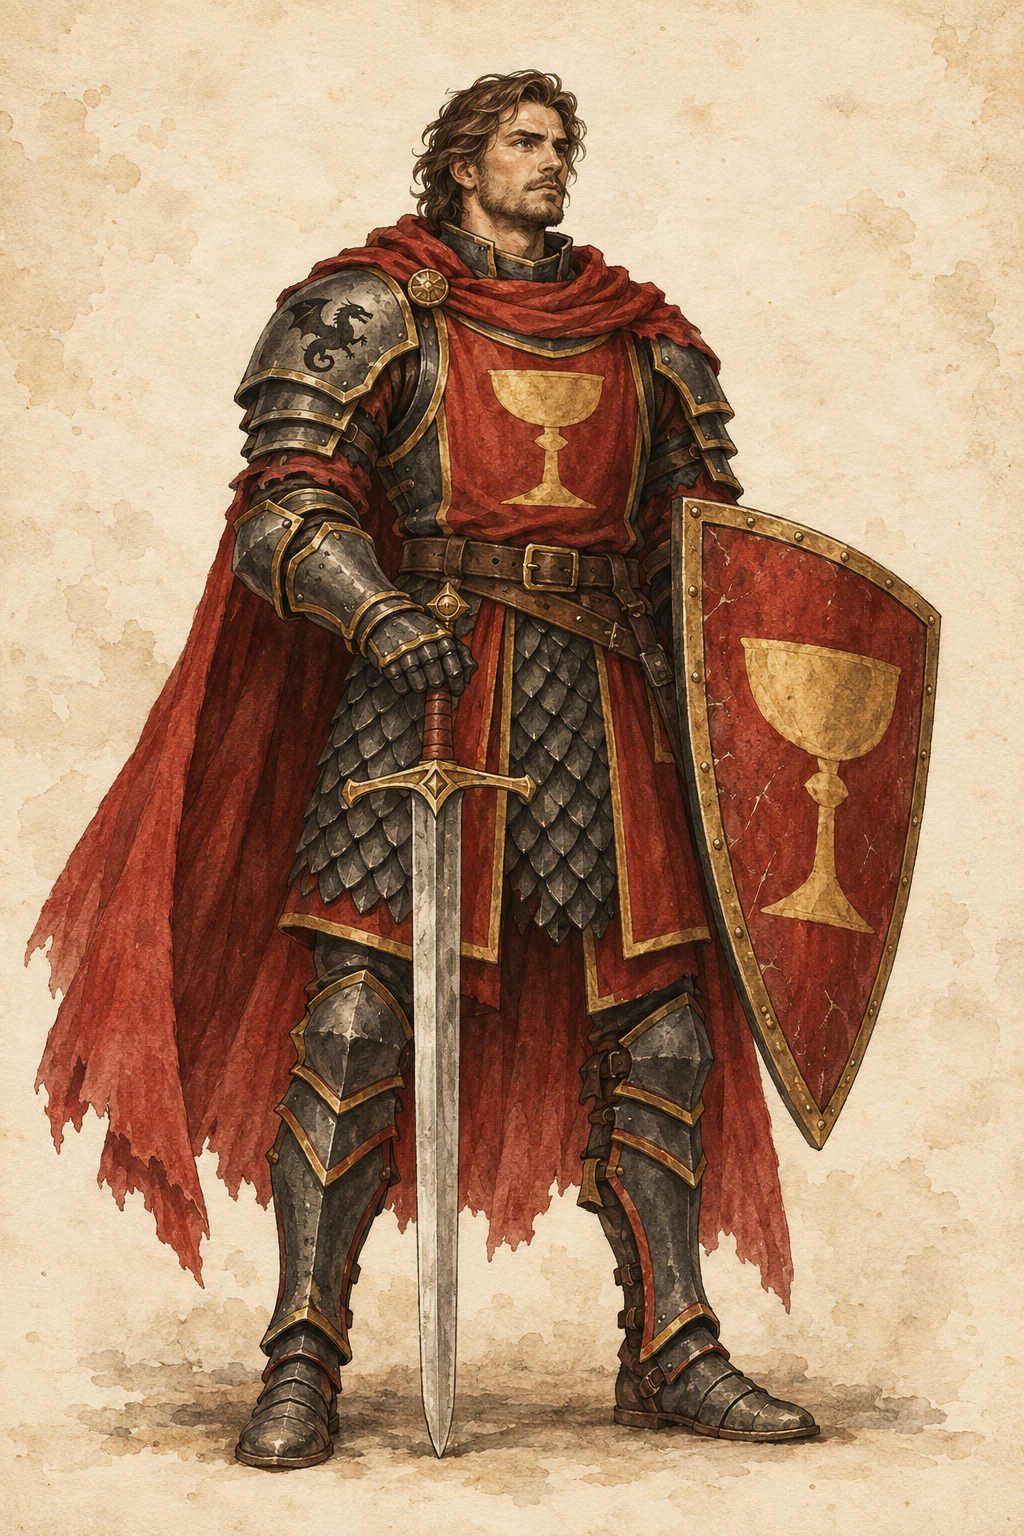
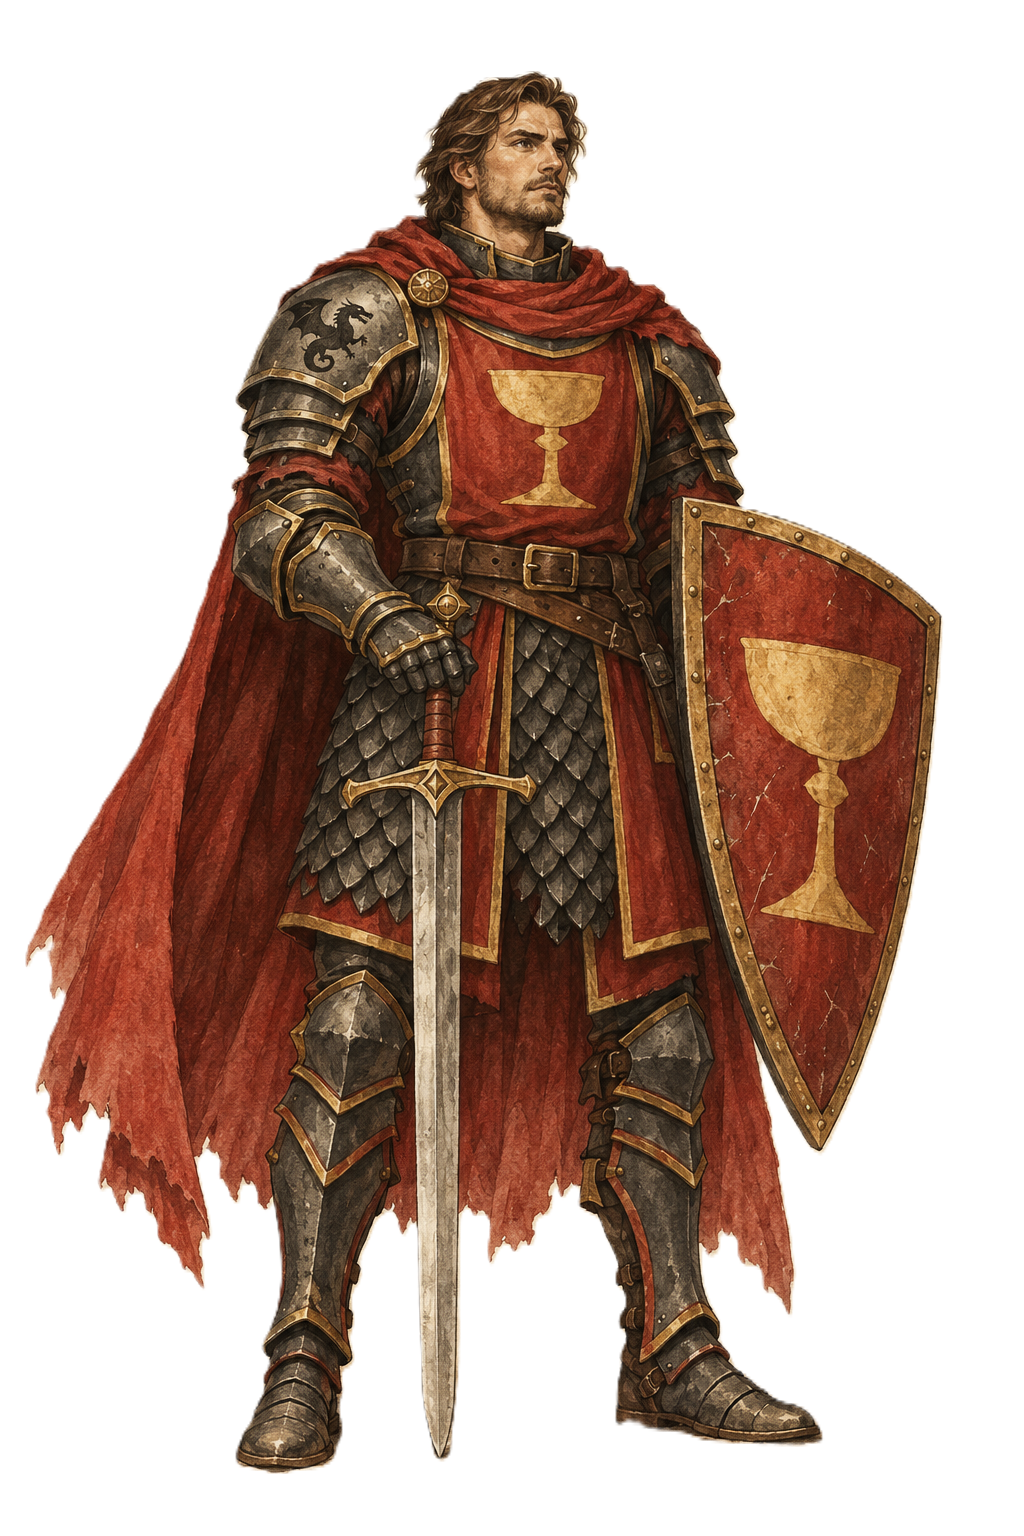
Use user-corrected transparent Gwynthor warrior portraits

diff --git a/Familien Häuser und Clans/Estryll/Cenyr/Celtigerns_Wacht/Haus_Draig/haus.data.js b/Familien Häuser und Clans/Estryll/Cenyr/Celtigerns_Wacht/Haus_Draig/haus.data.js
@@ -129,7 +129,7 @@ window.HAEUSER_DATA = {
       {
         "name": "Derwyn",
         "description": "Heiliger Ritter und Paladin im Zeichen des Heiligen Grals.",
-        "image": "Estryll/Cenyr/Celtigerns_Wacht/Haus_Draig/assets/krieger/draig-derwyn-v1.png"
+        "image": "Estryll/Cenyr/Celtigerns_Wacht/Haus_Draig/assets/krieger/draig-derwyn-v1.png?v=20260930-transparent"
       },
       {
         "name": "Ritter zur See",
@@ -154,7 +154,7 @@ window.HAEUSER_DATA = {
       {
         "name": "Leibgardist",
         "description": "Handverlesener persönlicher Wächter · Teil der Draig-Hausmacht.",
-        "image": "Estryll/Cenyr/Celtigerns_Wacht/Haus_Draig/assets/krieger/draig-leibgardist-v1.png"
+        "image": "Estryll/Cenyr/Celtigerns_Wacht/Haus_Draig/assets/krieger/draig-leibgardist-v1.png?v=20260930-transparent"
       },
       {
         "name": "Knappe",

diff --git a/Orte/Koenigreich_Cenyr/Grafschaft_Celtigerns_Wacht/Baronie_Llamreis_Ankunft/Gwynthors_Bannkreis/Gwynthor/ort.data.js b/Orte/Koenigreich_Cenyr/Grafschaft_Celtigerns_Wacht/Baronie_Llamreis_Ankunft/Gwynthors_Bannkreis/Gwynthor/ort.data.js
@@ -95,7 +95,7 @@
         {
           id: "cochllamwyr", name: "Cochllamwyr", branch: "Stadtwache · Rotmäntel",
           tier: "Elite der Stadtverteidigung",
-          image: { src: `${militaryAssetRoot}/cochllamwyr-v1.png`, alt: "Cochllamwyr in reich ausgestatteter Rüstung, rotem Mantel und mit Gwynthors Stadtwappen" },
+          image: { src: `${militaryAssetRoot}/cochllamwyr-v1.png?v=20260930-transparent`, alt: "Cochllamwyr in reich ausgestatteter Rüstung, rotem Mantel und mit Gwynthors Stadtwappen" },
           note: "Tore, Mauern, Märkte, Kais und Straßen innerhalb Gwynthors sind ihr Auftrag. Edlere Rüstung und das stolze Rot der Mäntel zeichnen sie aus; auf ihrem Schild steht das Wappen der Stadt."
         },
         {

diff --git a/Orte/_template/GrosseStadtTemplate.html b/Orte/_template/GrosseStadtTemplate.html
@@ -15,7 +15,7 @@
   <link rel="stylesheet" href="/Orte/modules/personalities/place-personalities.css?v=20260918b">
   <link rel="stylesheet" href="/Orte/modules/introduction/place-introduction.css?v=20260913a">
   <link rel="stylesheet" href="/Orte/modules/military/military-entry.css?v=20260913a">
-  <script src="/js/world-content/celtigerns-wacht-places.js?v=20260930a"></script>
+  <script src="/js/world-content/celtigerns-wacht-places.js?v=20260930b"></script>
   <script src="/Orte/orte.registry.js?v=20260918b"></script>
   <script src="/Orte/assets/js/orte-loader.js?v=celtigerns-orte-20260901a"></script>
   <script src="/Orte/assets/js/orte-place-media.js?v=celtigerns-orte-20260901a" defer></script>

diff --git a/Orte/grossstadt.html b/Orte/grossstadt.html
@@ -15,7 +15,7 @@
   <link rel="stylesheet" href="/Orte/modules/personalities/place-personalities.css?v=20260918b">
   <link rel="stylesheet" href="/Orte/modules/introduction/place-introduction.css?v=20260913a">
   <link rel="stylesheet" href="/Orte/modules/military/military-entry.css?v=20260913a">
-  <script src="/js/world-content/celtigerns-wacht-places.js?v=20260930a"></script>
+  <script src="/js/world-content/celtigerns-wacht-places.js?v=20260930b"></script>
   <script src="/Orte/orte.registry.js?v=20260918b"></script>
   <script src="/Orte/assets/js/orte-loader.js?v=celtigerns-orte-20260901a"></script>
   <script src="/Orte/assets/js/orte-place-media.js?v=celtigerns-orte-20260901a" defer></script>

diff --git a/Familien Häuser und Clans/haus.html b/Familien Häuser und Clans/haus.html
@@ -9,7 +9,7 @@
   <link rel="stylesheet" href="modules/court/house-court.css?v=hausseiten-20260911c">
   <link rel="stylesheet" href="modules/warrior-gallery/house-warrior-gallery.css?v=20260930a">
   <link rel="stylesheet" href="assets/css/haeuser-responsive.css?v=ritterhaeuser-20260911f">
-  <script src="haeuser.registry.js?v=draig-krieger-20260930a"></script>
+  <script src="haeuser.registry.js?v=draig-krieger-20260930b"></script>
   <script src="assets/js/haeuser-loader.js?v=haeuser-vorlage-20260705f"></script>
   <script type="module" src="assets/js/haeuser-page.js?v=draig-krieger-20260930a"></script>
   <link rel="stylesheet" href="/modules/world-codex/world-codex.css?v=20260919a">

diff --git a/js/world-content/celtigerns-wacht-places.js b/js/world-content/celtigerns-wacht-places.js
@@ -95,7 +95,7 @@
   const definitions = Object.freeze([
     define("gwynthor", "Gwynthor", "Großstadt", "county", {
       featured: true,
-      dataPath: "Koenigreich_Cenyr/Grafschaft_Celtigerns_Wacht/Baronie_Llamreis_Ankunft/Gwynthors_Bannkreis/Gwynthor/ort.data.js?v=gwynthor-military-20260930a",
+      dataPath: "Koenigreich_Cenyr/Grafschaft_Celtigerns_Wacht/Baronie_Llamreis_Ankunft/Gwynthors_Bannkreis/Gwynthor/ort.data.js?v=gwynthor-military-20260930b",
       hierarchy: [
         ...baseHierarchy,
         { type: "Baronie", name: "Llamreis Ankunft", slug: "llamreis-ankunft" },

diff --git a/Orte/militaer.html b/Orte/militaer.html
@@ -5,7 +5,7 @@
   <meta name="viewport" content="width=device-width, initial-scale=1">
   <title>Militäransicht - Aleria</title>
   <link rel="stylesheet" href="/Orte/modules/military/military-view.css?v=20260930a">
-  <script src="/js/world-content/celtigerns-wacht-places.js?v=20260930a"></script>
+  <script src="/js/world-content/celtigerns-wacht-places.js?v=20260930b"></script>
   <script src="/Orte/orte.registry.js?v=20260918b"></script>
   <script type="module" src="/Orte/modules/military/military-view.mjs?v=20260930a"></script>
 </head>

diff --git a/Familien Häuser und Clans/haeuser.registry.js b/Familien Häuser und Clans/haeuser.registry.js
@@ -427,7 +427,7 @@
       name: "Haus Draig O'Gwynthor",
       status: HOUSE_STATUS.ACTIVE,
       type: HOUSE_TYPES.HOUSE,
-      data: "Estryll/Cenyr/Celtigerns_Wacht/Haus_Draig/haus.data.js?v=draig-krieger-20260930a",
+      data: "Estryll/Cenyr/Celtigerns_Wacht/Haus_Draig/haus.data.js?v=draig-krieger-20260930b",
       hierarchy: [
         { type: "Sammlung", name: "Familien Häuser und Clans", slug: "familien-haeuser-und-clans" },
         { type: "Kontinent", name: "Estryll", slug: "estryll" },

diff --git a/Familien Häuser und Clans/Estryll/Cenyr/Celtigerns_Wacht/Haus_Draig/KRIEGER.md b/Familien Häuser und Clans/Estryll/Cenyr/Celtigerns_Wacht/Haus_Draig/KRIEGER.md
@@ -10,6 +10,8 @@ Elf vorhandene Draig-Bilder stammen unverändert aus `D:\0-KI Generierte\01 Bild
 
 ## Finale Bildprompts und Projektdateien
 
+Nachtrag am selben Tag: Der Nutzer hat die drei neuen Kriegerbilder selbst freigestellt und die Originalausgaben ersetzt. Die eingebundenen Projektdateien wurden durch diese gelieferten RGBA-Fassungen ersetzt; Bildverweise tragen `?v=20260930-transparent`. Die folgenden Prompts dokumentieren die ursprüngliche Erzeugung vor der Freistellung.
+
 ### Cochllamwyr
 
 Projektdatei: `Orte/Koenigreich_Cenyr/Grafschaft_Celtigerns_Wacht/Baronie_Llamreis_Ankunft/Gwynthors_Bannkreis/Gwynthor/assets/cochllamwyr-v1.png`
